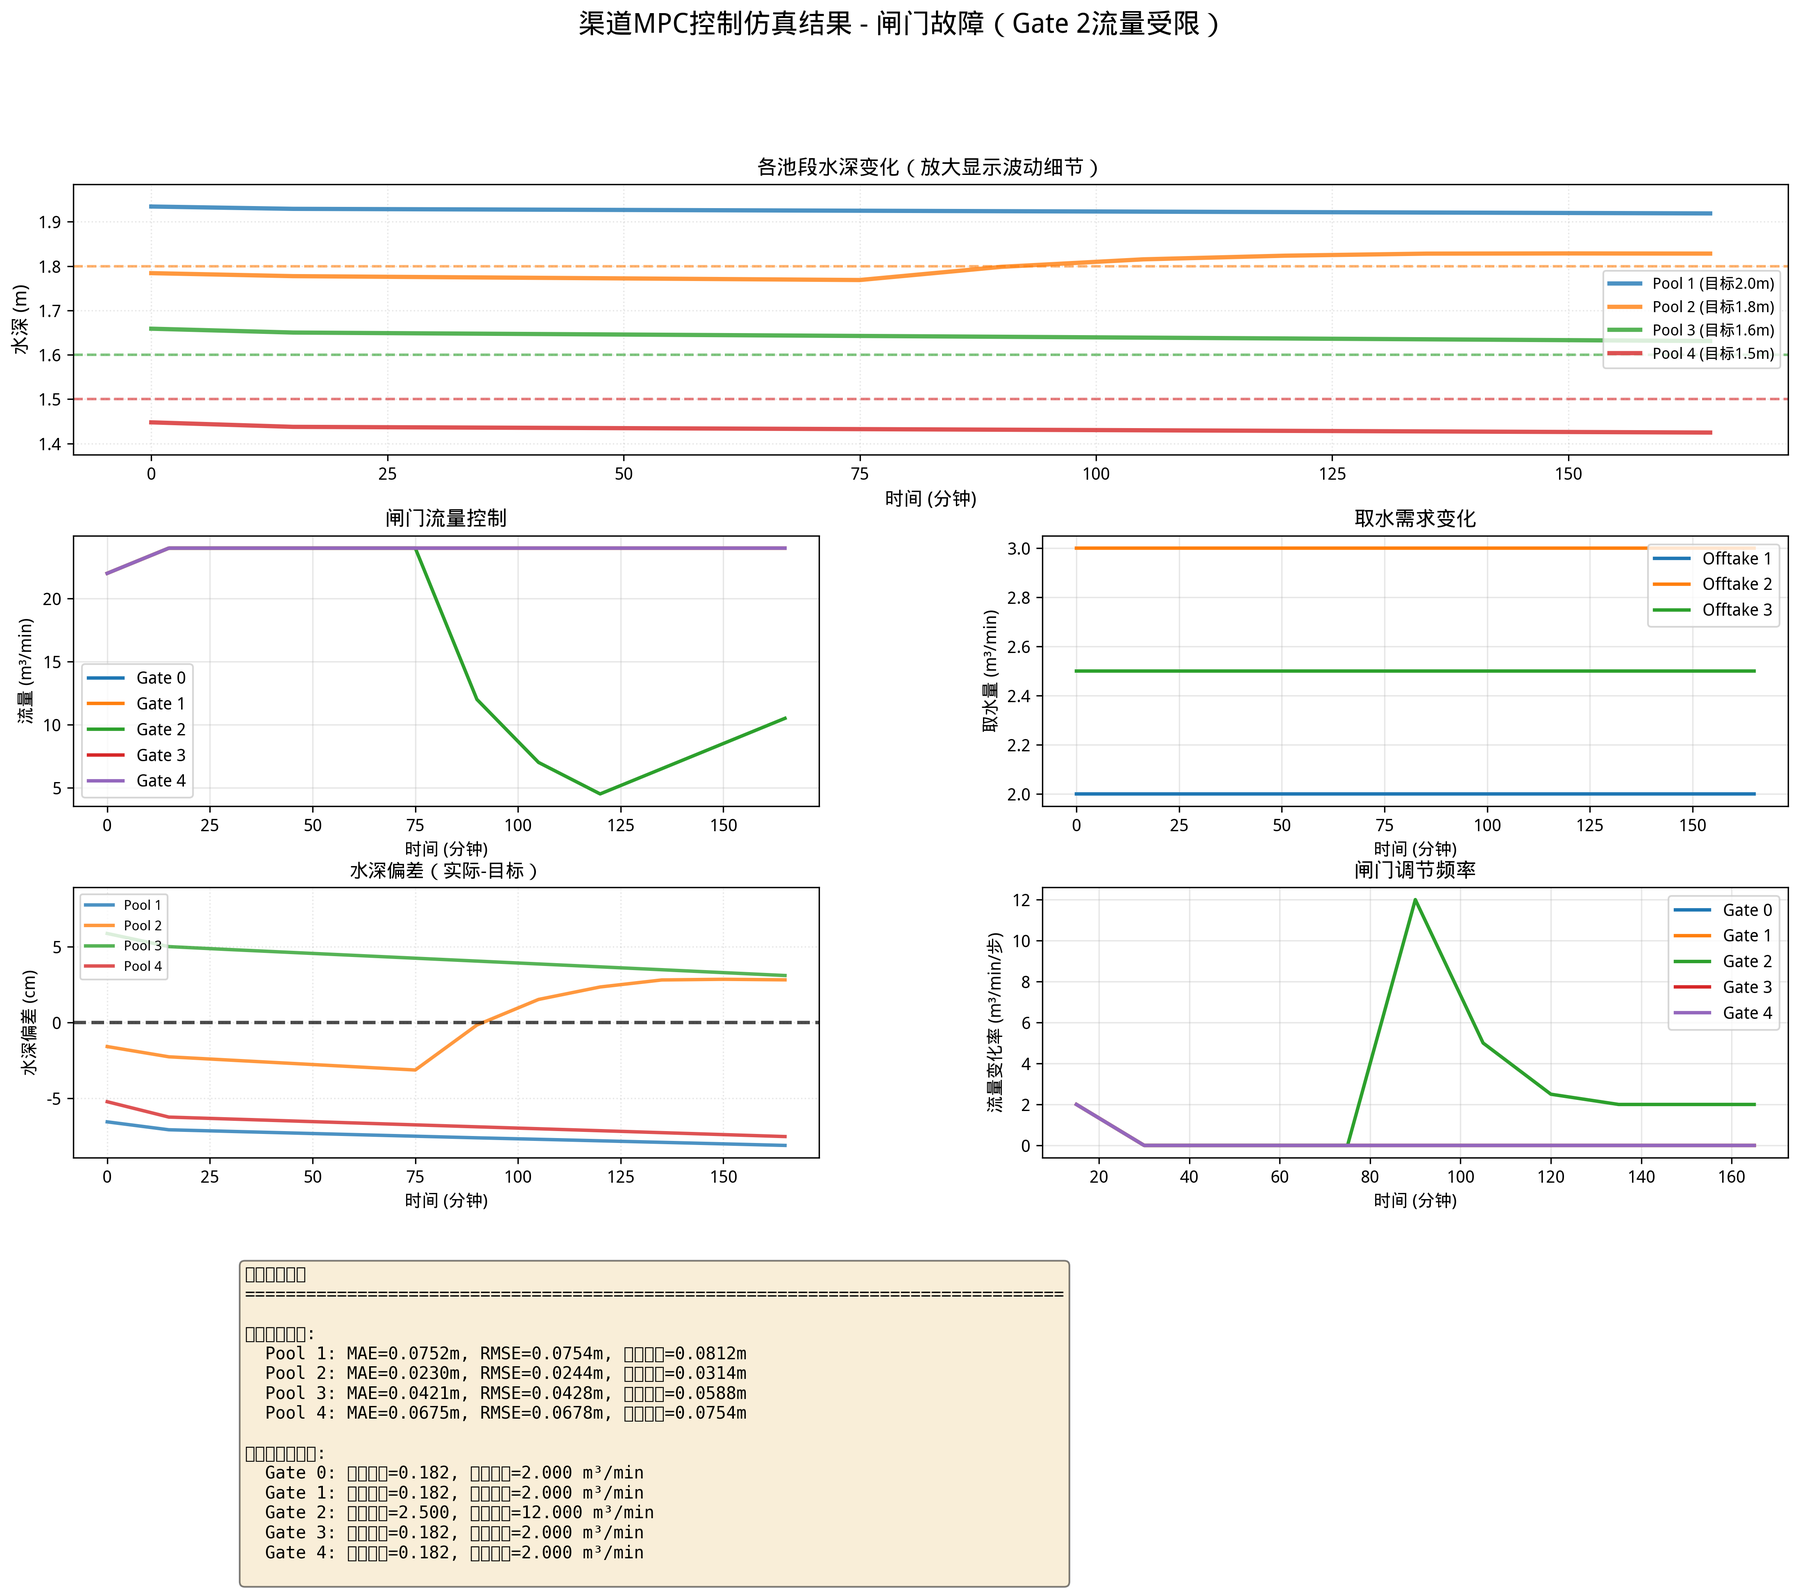
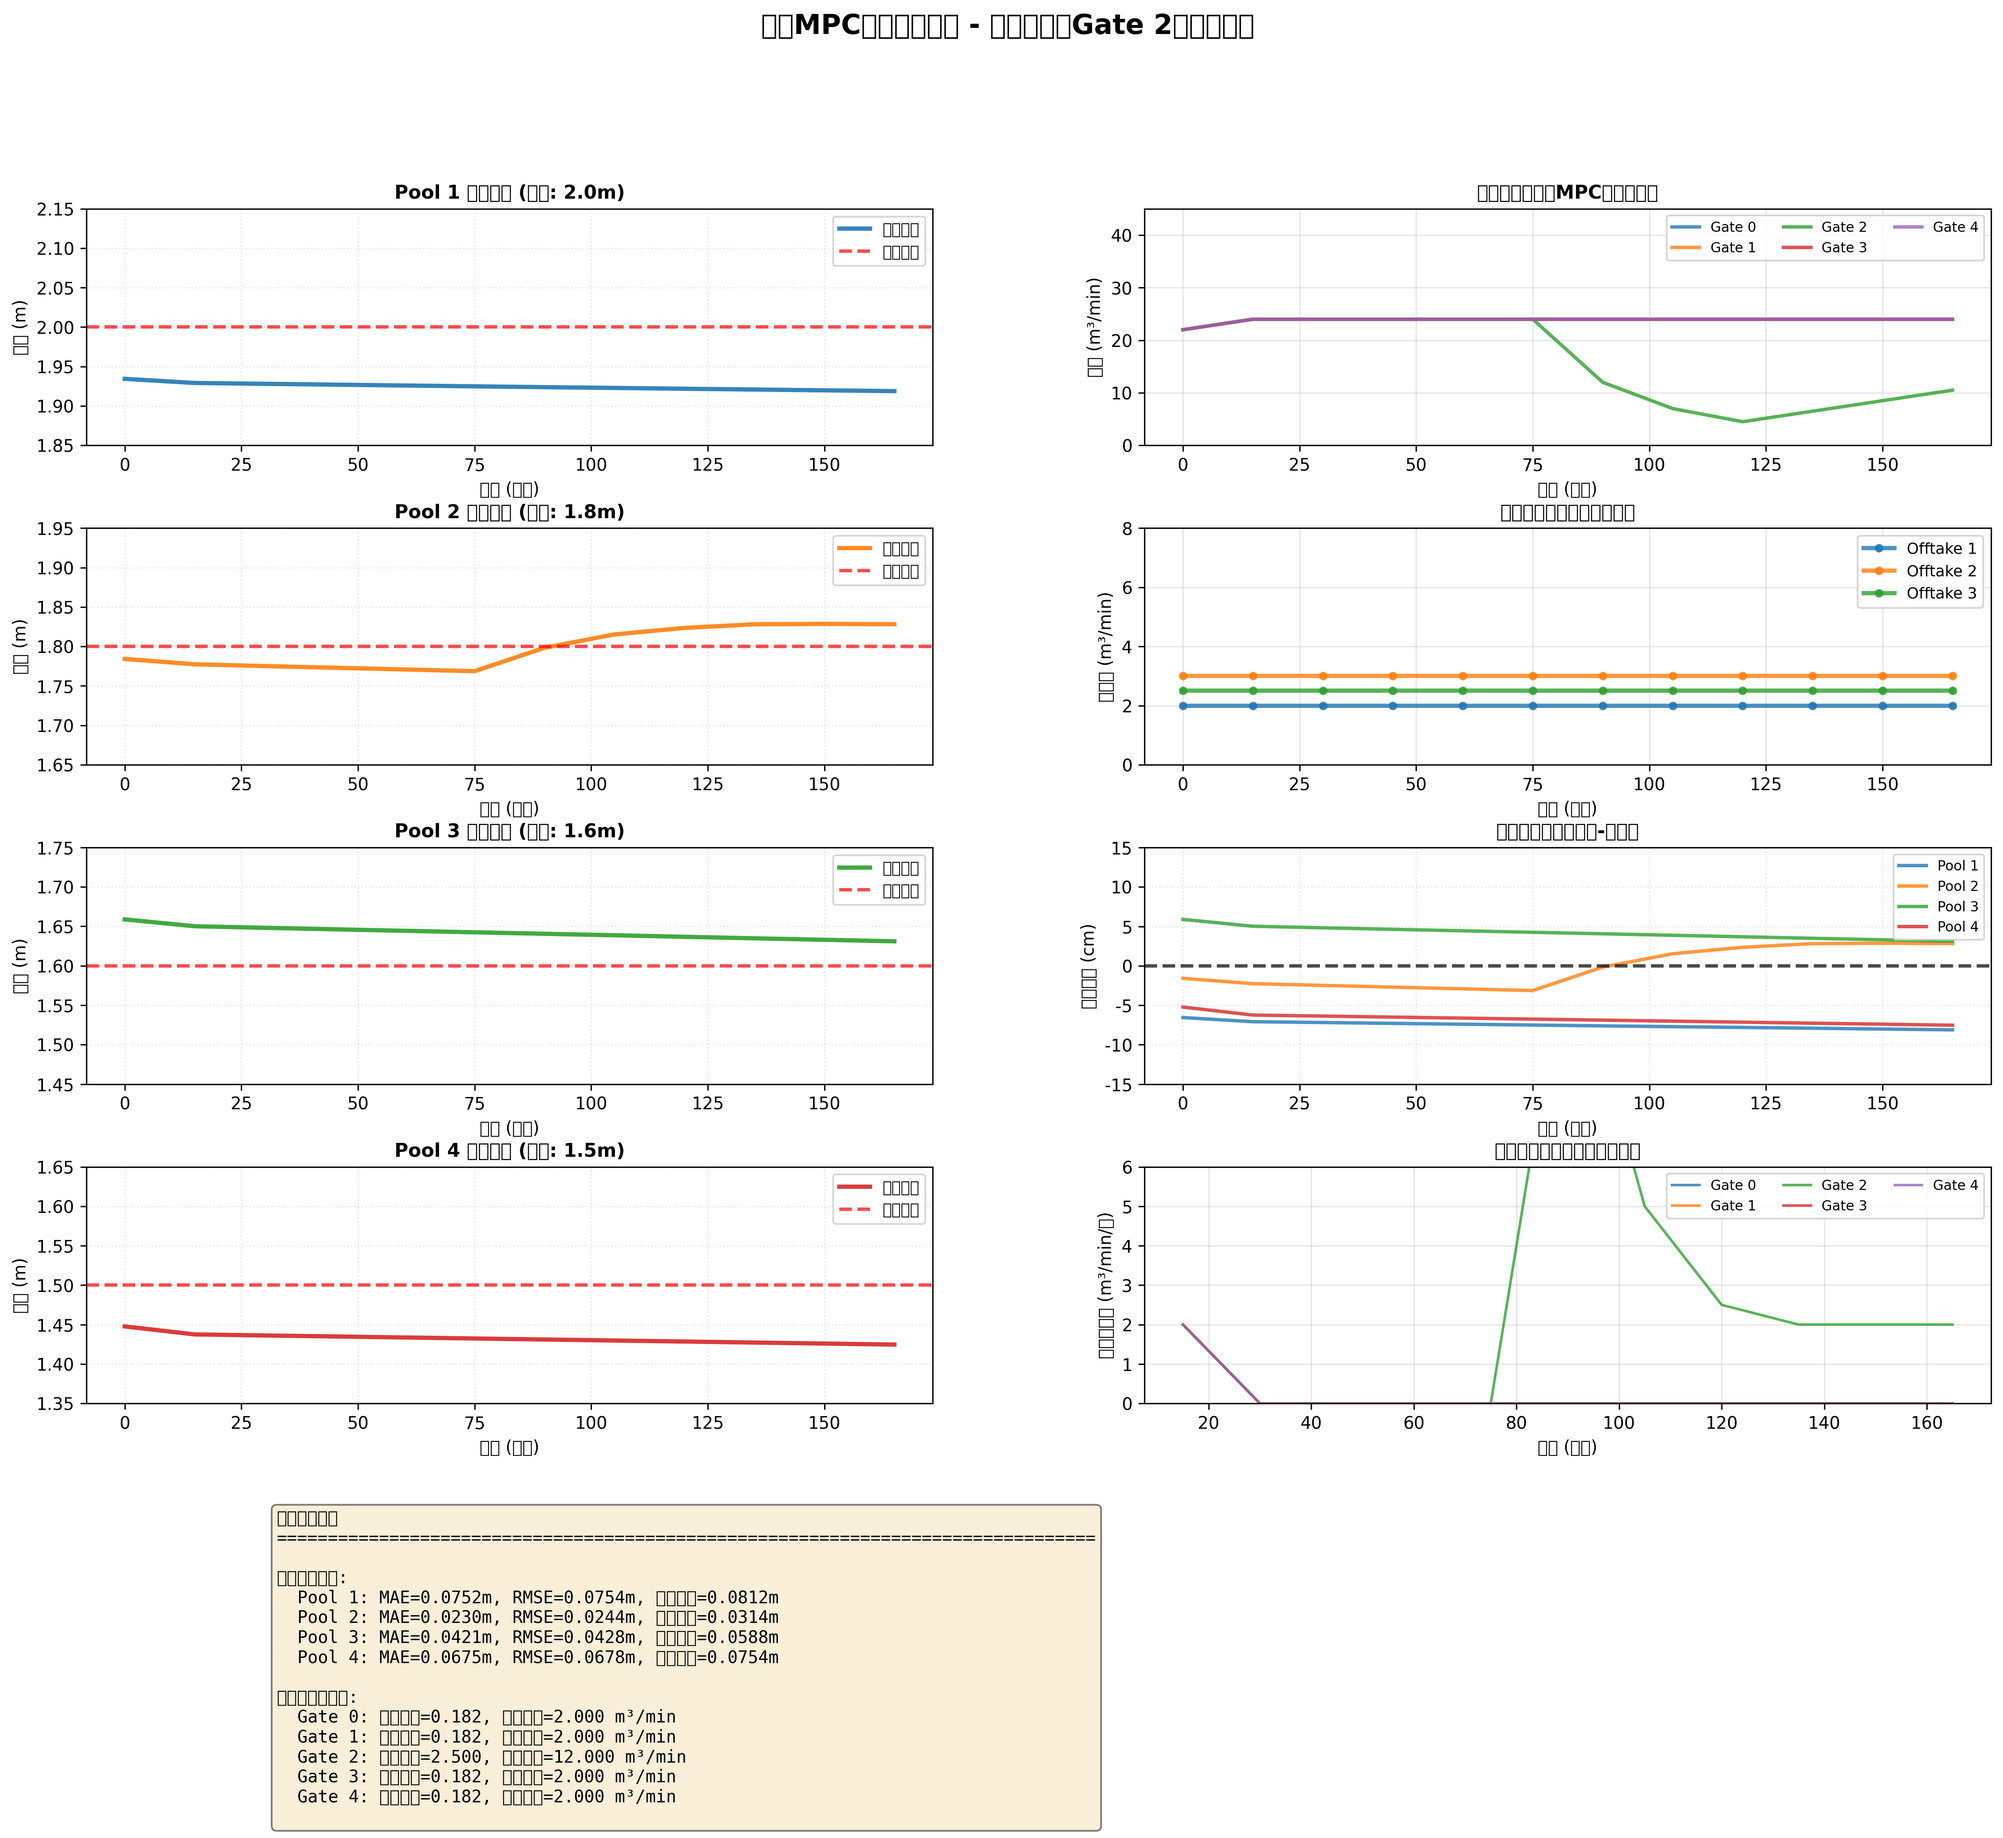
Add improved visualization results for Case 5 canal MPC control
更新内容：
1. 重新生成的静态可视化图
   - 固定坐标轴范围（清晰对比）
   - 4个池段分离显示（独立子图）
   - 闸门流量控制展示MPC提前调控效果

2. 重新生成的动画
   - 降低速度（fps=2，更易观察）
   - 固定坐标轴（不再跳动）
   - 清晰展示MPC滚动优化过程

3. 更新的报告和数据文件

🤖 Generated with [Claude Code](https://claude.com/claude-code)

diff --git a/examples/case5_canal_mpc_control/results/REPORT_需求突变.md b/examples/case5_canal_mpc_control/results/REPORT_需求突变.md
@@ -43,28 +43,28 @@
 ### 3.1 水深控制精度
 
 
-**Pool 1** (目标水深: 2.0m) ⚠ 良好
-- 平均绝对误差(MAE): 0.0756 m (3.78%)
-- 均方根误差(RMSE): 0.0760 m
-- 最大偏差: 0.0835 m
+**Pool 1** (目标水深: 2.0m) ✅ 优秀
+- 平均绝对误差(MAE): 0.0174 m (0.87%)
+- 均方根误差(RMSE): 0.0188 m
+- 最大偏差: 0.0251 m
 
 
 **Pool 2** (目标水深: 1.8m) ✅ 优秀
-- 平均绝对误差(MAE): 0.0331 m (1.84%)
-- 均方根误差(RMSE): 0.0337 m
-- 最大偏差: 0.0430 m
+- 平均绝对误差(MAE): 0.0080 m (0.44%)
+- 均方根误差(RMSE): 0.0096 m
+- 最大偏差: 0.0192 m
 
 
 **Pool 3** (目标水深: 1.6m) ✅ 优秀
-- 平均绝对误差(MAE): 0.0258 m (1.61%)
-- 均方根误差(RMSE): 0.0269 m
-- 最大偏差: 0.0366 m
+- 平均绝对误差(MAE): 0.0430 m (2.69%)
+- 均方根误差(RMSE): 0.0437 m
+- 最大偏差: 0.0598 m
 
 
-**Pool 4** (目标水深: 1.5m) ✅ 优秀
-- 平均绝对误差(MAE): 0.0046 m (0.30%)
-- 均方根误差(RMSE): 0.0059 m
-- 最大偏差: 0.0147 m
+**Pool 4** (目标水深: 1.5m) ⚠ 良好
+- 平均绝对误差(MAE): 0.0824 m (5.49%)
+- 均方根误差(RMSE): 0.0826 m
+- 最大偏差: 0.0903 m
 
 
 ### 3.2 控制平滑度
@@ -76,18 +76,18 @@
 
 
 **Gate 1**:
-- 平均变化率: 0.182 m³/min/步
-- 最大变化率: 2.000 m³/min/步
+- 平均变化率: 0.180 m³/min/步
+- 最大变化率: 1.982 m³/min/步
 
 
 **Gate 2**:
-- 平均变化率: 0.182 m³/min/步
-- 最大变化率: 2.000 m³/min/步
+- 平均变化率: 0.174 m³/min/步
+- 最大变化率: 1.910 m³/min/步
 
 
 **Gate 3**:
-- 平均变化率: 0.182 m³/min/步
-- 最大变化率: 2.000 m³/min/步
+- 平均变化率: 0.181 m³/min/步
+- 最大变化率: 1.991 m³/min/步
 
 
 **Gate 4**:
@@ -100,8 +100,8 @@
 
 ### 4.1 整体性能
 
-- **水深控制精度**: 平均MAE = 0.0348 m
-- **控制平滑度**: 平均变化率 = 0.182 m³/min/步
+- **水深控制精度**: 平均MAE = 0.0377 m
+- **控制平滑度**: 平均变化率 = 0.180 m³/min/步
 
 ### 4.2 MPC效果分析
 
